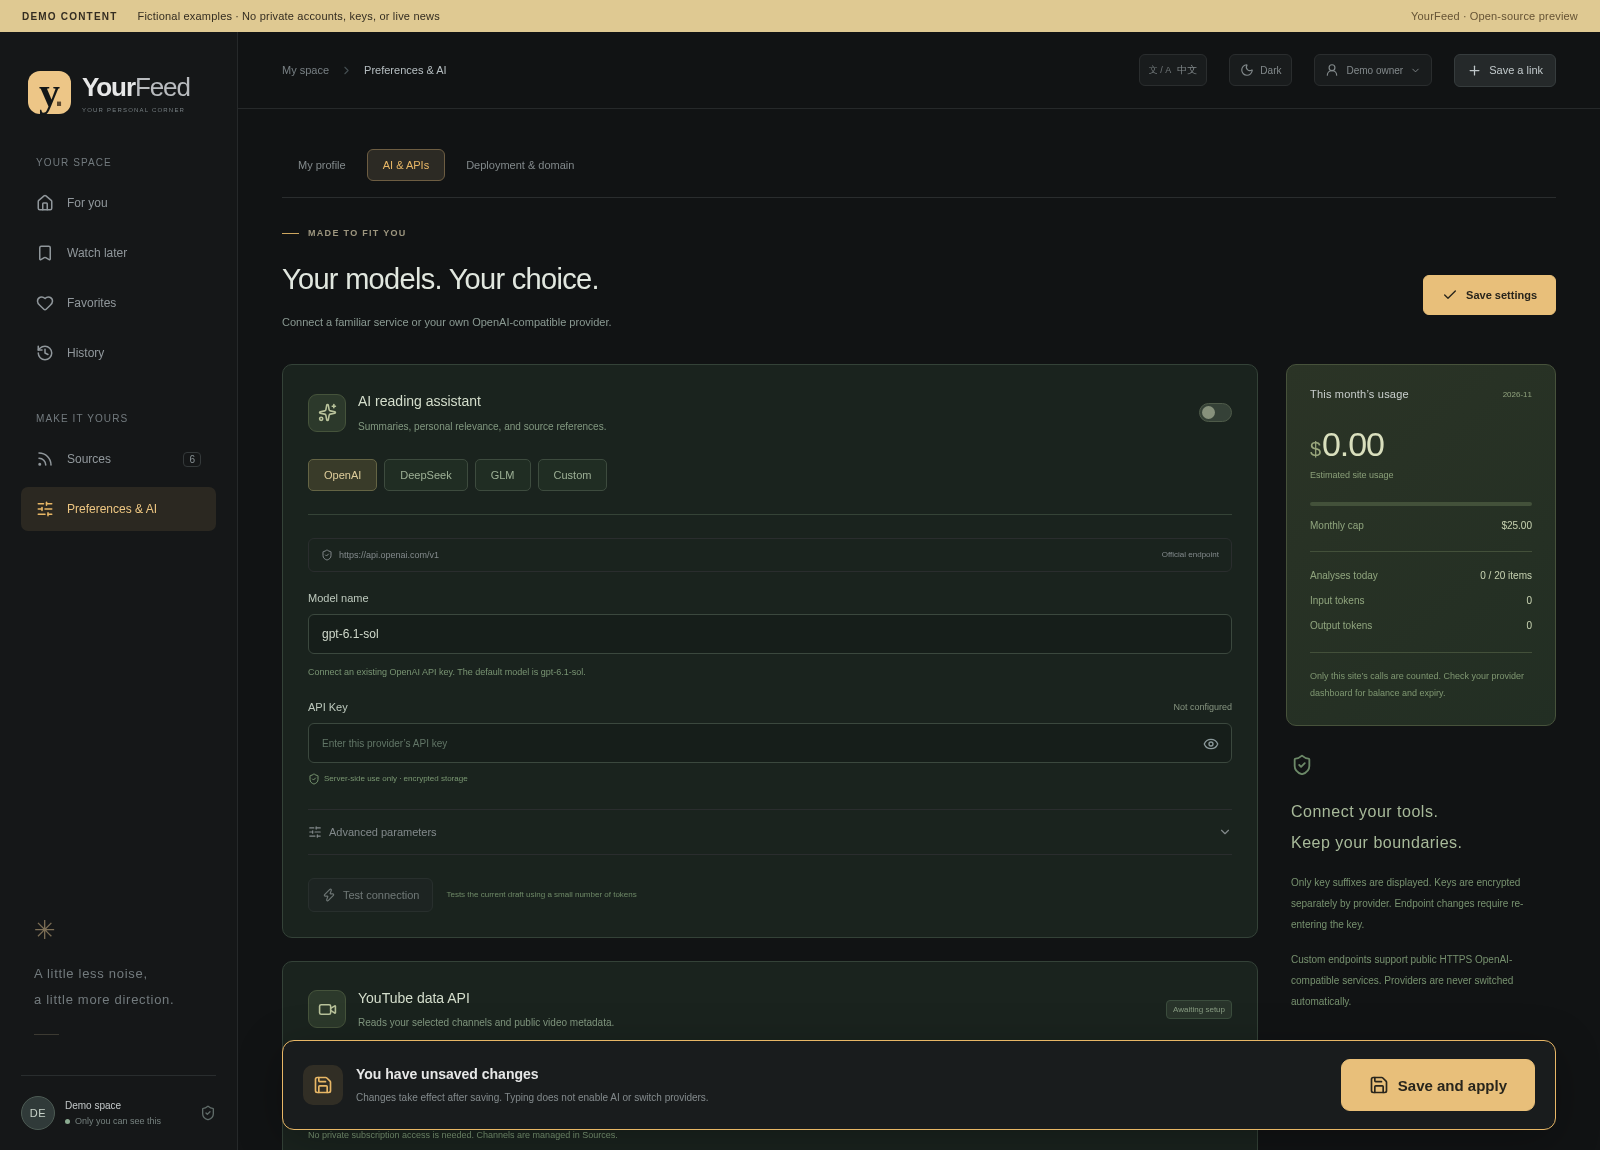
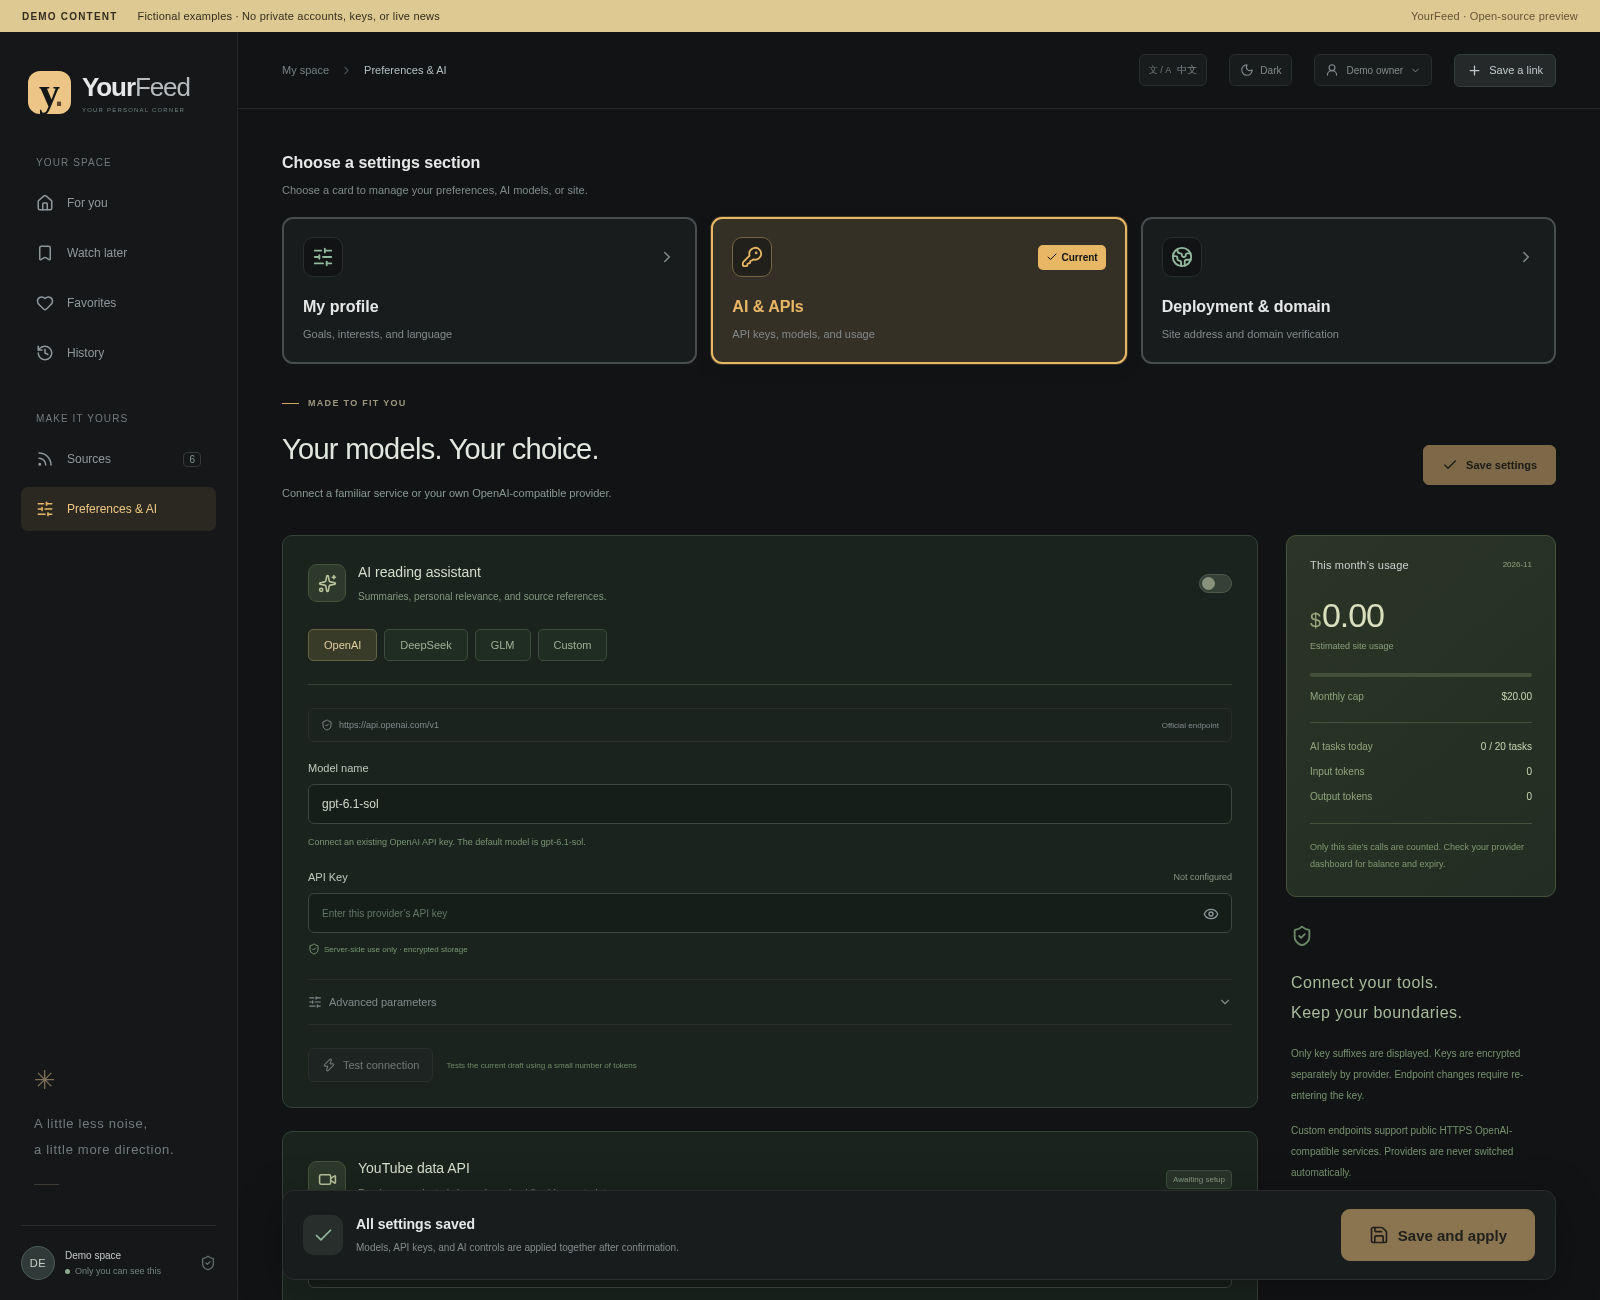
docs: refresh previews for batch switching and settings cards

diff --git a/README.md b/README.md
@@ -45,7 +45,7 @@ The deploy button uses this GitHub source to create an independent Worker and D1
 
 **AI settings with a persistent Save and apply bar**
 
-![YourFeed demo AI settings with a blank API key field and visible unsaved-changes bar](docs/screenshots/ai-settings.png)
+![YourFeed demo AI settings with a blank API key field and visible Save and apply status bar](docs/screenshots/ai-settings.png)
 
 **Start with curated sources, an AI conversation, or your own list**
 
